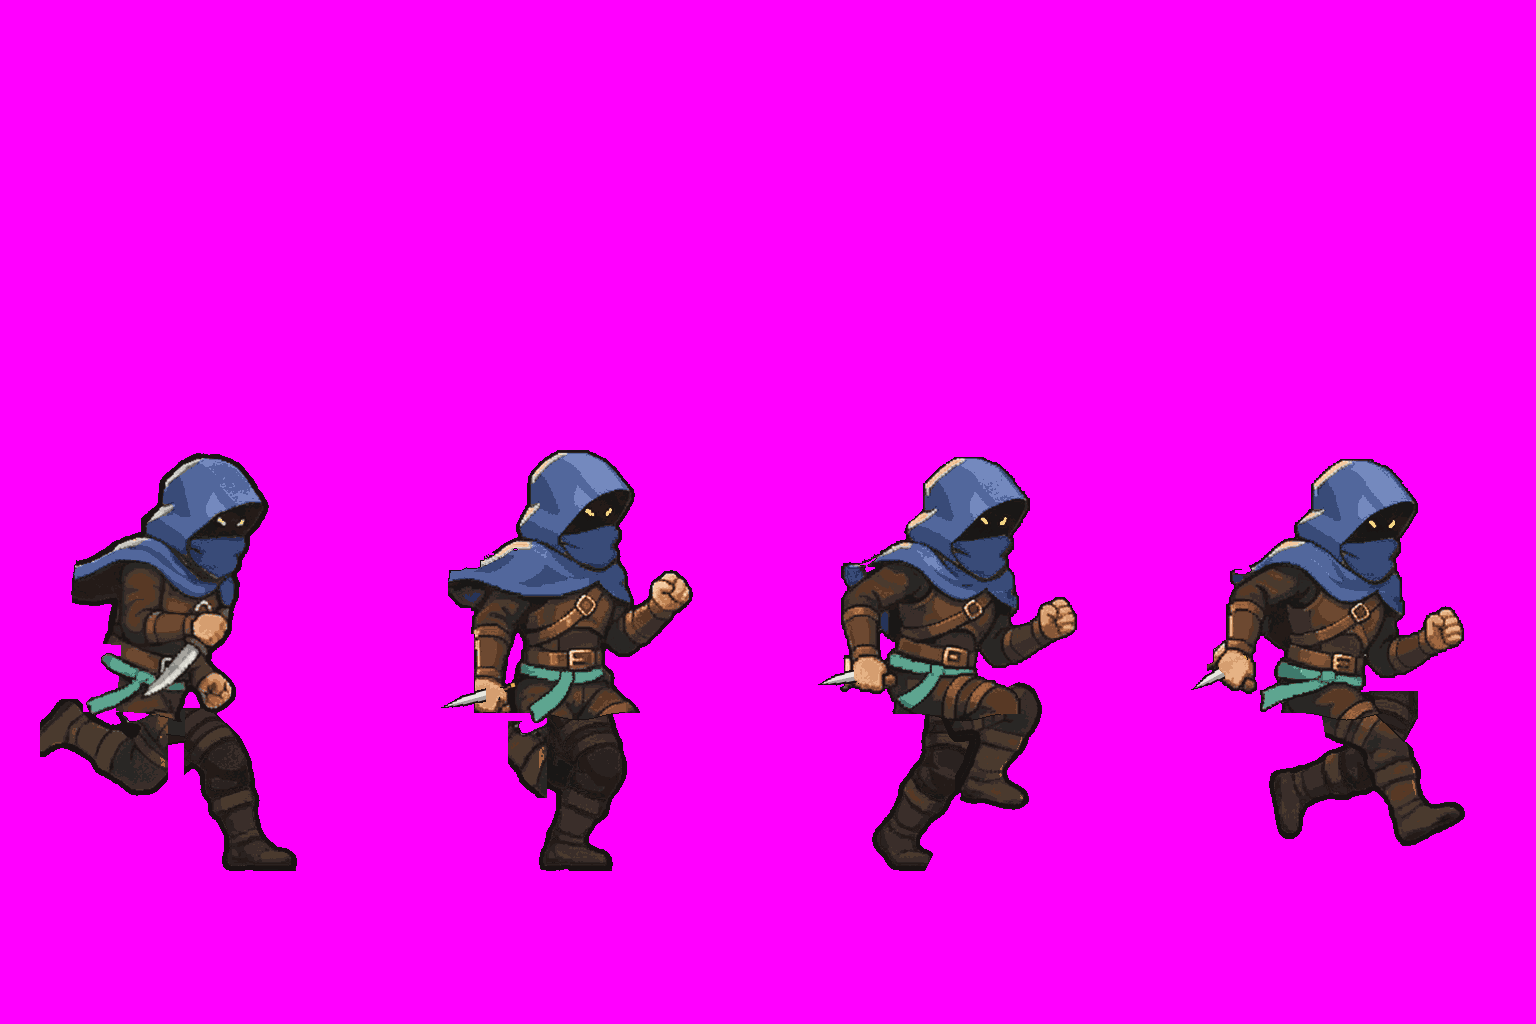
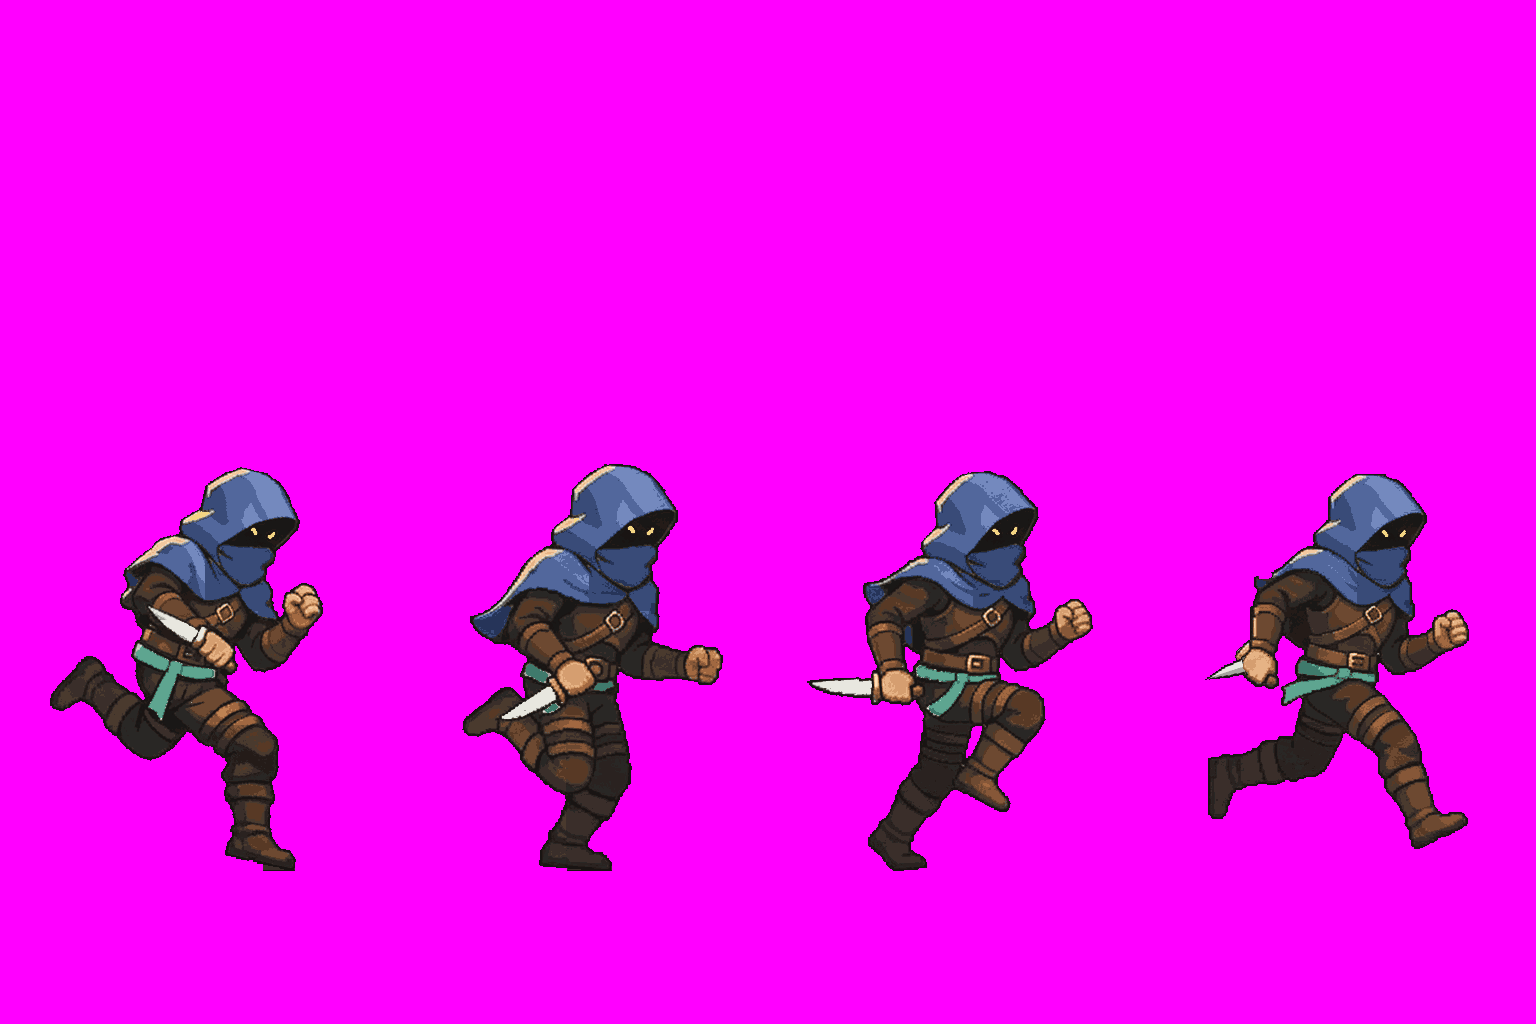
art(inbox): fix rogue run R4/R8 leg seams and R1 1x dagger

diff --git a/art/inbox/NOTES.md b/art/inbox/NOTES.md
@@ -1372,3 +1372,30 @@ CHANGED:
 본 방법: `kato_chain_fullres_crop.png`(원본 1:1 4자세 크롭), `kato_chain_1x_compare.png`(0.18 셀112 및 0.1654 셀96 다크 `#2a2e26` / 풀 `#58723d` 배경 위 바렌과 나란히 1×·4× 비교), 양쪽 `sheets.py --dry-run` `preview_x4.png` 육안 대조
 고칠 점: 없음
 남은 걱정: `0.18`(대기 51×76px)에서는 바렌보다 덩치가 한 단 크게, `0.1654`(47×69px)에서는 일반 대장 키에 맞춰지는 차이가 있으므로, 전투 화면 실제 배치 크기는 후속 Codex 전투 QA에서 비교 후 확정 필요. 1× 크기에서 양손 사슬·등검·준비↔접촉 구분 모두 선명하게 읽힘.
+
+
+## gait/sheet_class_rogue_run - 병과 도적 달리기 (11-27 주인 지적 손질)
+CHECK:
+  check_delivery.py sheet_class_rogue_run_a.png --flight-slots 4 -> RESULT: PASS (figure colours: 31, dist 205.7, pose 1: x 68-305 top y=467 bot y=870, pose 2: x 421-676 top y=465 bot y=870, pose 3: x 823-1064 top y=471 bot y=870, pose 4: x 1216-1474 top y=475 bot y=848, pose 4 (flight): 22 px above the guide line (>= 18))
+  check_delivery.py sheet_class_rogue_run_b.png --flight-slots 4 -> RESULT: PASS (figure colours: 31, dist 205.7, pose 1: x 50-322 top y=467 bot y=870, pose 2: x 462-722 top y=464 bot y=870, pose 3: x 807-1092 top y=471 bot y=870, pose 4: x 1205-1468 top y=474 bot y=848, pose 4 (flight): 22 px above the guide line (>= 18))
+  add_gait.py sheet/class/rogue --gait run --dry-run -> 프레임별 맨 아래 픽셀 (바닥 줄 위 게임 px): 1:0 2:0 3:0 4:4 5:0 6:0 7:0 8:4 / sheet.gait = light / sheet/class/rogue: 시트 384x384, 15칸 — idle(4), attack(2), hit(1), run(8); runStride 45.5
+REFERENCES LOADED: guide_run_a/b, size_run_a/b, sheet_class_rogue.png, concept.png, pose.json -> ok
+CHANGED: 이전 판의 허리-허벅지 가로 절단·이식(`split_upper_below_sash` + `extract_clean_leg`)을 완전히 폐기하고, 8프레임 모두 **통몸(whole-body uncut)** 원화에서 재조립해 R4·R8 포함 R1–R8 전 프레임의 다리 이음매를 완전히 없앰(`seams: checked R1-R8`, `31`색, `boot_bleed=0`, 틸 허리띠 `412..1540 px`, 양쪽 금빛 눈광 `#f4d583` `44..257 px`, 먼 다리는 제자리 어둡기만 `0.72~0.85x` 적용).
+  - R1: 근접촉 (`top_y=467`, 디딘 발끝 `290` y=870, 제자리 먼 다리 `0.72x`). 뒤 가까운 손 역수 단검을 굵은 60px 밝은 은빛 칼날(`-18 deg`, `#e8e7df`/`#a6a49e` + `#191413` 외곽선, `dagger_hi=171 px`)로 키워 1× 게임 크기에서도 마젠타 위로 또렷이 읽히도록 수정.
+  - R2: 근착지 (`top_y=465`, 발끝 `222` y=870, 끊김 없는 통몸 + 자연스러운 뾰족 망토 + 앞 팔뚝 역수 단검 `dagger_hi=814 px`).
+  - R3: 근밀기 (`top_y=471`, 발끝 `154` [목표 155] y=870, 통몸 `-3.0 deg` 회전, 앞 먼 무릎 `0.74x` 어둡기 + 앞 역수 단검 `dagger_hi=705 px`).
+  - R4 (FLIGHT): `top_y=475`, `bot_y=848 <= 852` (`22 px` / `4` 게임px 체공, 100% 통몸 무절단으로 허리-허벅지-무릎-장화가 끊김 없이 이어짐, 앞 먼 다리 `0.78x`, 앞 역수 단검 `dagger_hi=615 px`, 금빛 두 눈 복구 `53 px`).
+  - R5: 원접촉 (`top_y=467`, 먼 디딘 발끝 `294` [목표 295] y=870, `b_v3 r0c0` `+13.0 deg` 기울기, 먼 앞다리 `0.76x` + 근 뒷다리 밝게 교차).
+  - R6: 원착지 (`top_y=464`, 먼 디딘 발끝 `227` y=870, `b_v3 r0c1` `+4.0 deg`, 팔·망토·허리띠 절단 없이 그대로 살리고 뒤 역수 은빛 단검 강조 `dagger_hi=616 px`, 먼 수직 다리 `0.85x`).
+  - R7: 원밀기 (`top_y=471`, 먼 디딘 발끝 `158` y=870, `b_v3 r0c2` `-4.5 deg`, 망토·팔 원형 유지 + 뒤 역수 은빛 단검 강조 `dagger_hi=596 px`, 먼 밀기 다리 `0.82x`).
+  - R8 (FLIGHT): `top_y=474`, `bot_y=848 <= 852` (`22 px` / `4` 게임px 체공, `b_v3 r0c3` 100% 통몸 무절단, 먼 뒷다리 `0.84x` vs 앞 근다리 밝음, 52px 뒤 역수 은빛 단검 `-18 deg` `dagger_hi=141 px`).
+DEVIATIONS:
+  - (a) from mannequin pose/position: none (발끝 `290, 222, 154` / `294, 227, 158`, `top_y` 464..475 [보브 7~11px], R4/R8 `bot_y=848 <= 852`).
+  - (b) from sheet design: none (`Pose 1` 파란 두건·어두운 마스크 `#263459/#394b78`·어깨 망토·갈색 가죽 흉갑·틸 허리띠·눈광 유지).
+  - (c) from ARMS AND WEAPONS: none (단검은 전 8칸 가까운 손 역수, 먼 손은 빈 주먹).
+RISKS AT GAME SIZE: 없음 (R1–R8 전 프레임 1:1 허벅지-장화 크롭, 1×/4× 개별 비교, preview_x4 및 4× GIF에서 이음매·잘림·미끄러짐 및 1× R1 단검 시인성 모두 확인).
+## 판정 — gait/sheet_class_rogue_run
+결과: 통과
+본 방법: seams: checked R1-R8; `rogue_seam_check_1x4x.png`(R1–R8 + 대기 1:1 허리-장화 크롭 및 1×/4× 개별 프레임 어두운/풀밭 배경 대조), `work_v2/sheet_class_rogue_preview_x4.png`, `rogue_gif_frames_v2.png`(`add_gait --dry-run` 4× GIF 전 8프레임), `rogue_tint_mask.png`, `rogue_guide_overlay_a/b.png` 육안 대조
+고칠 점: 없음
+남은 걱정: 없음
